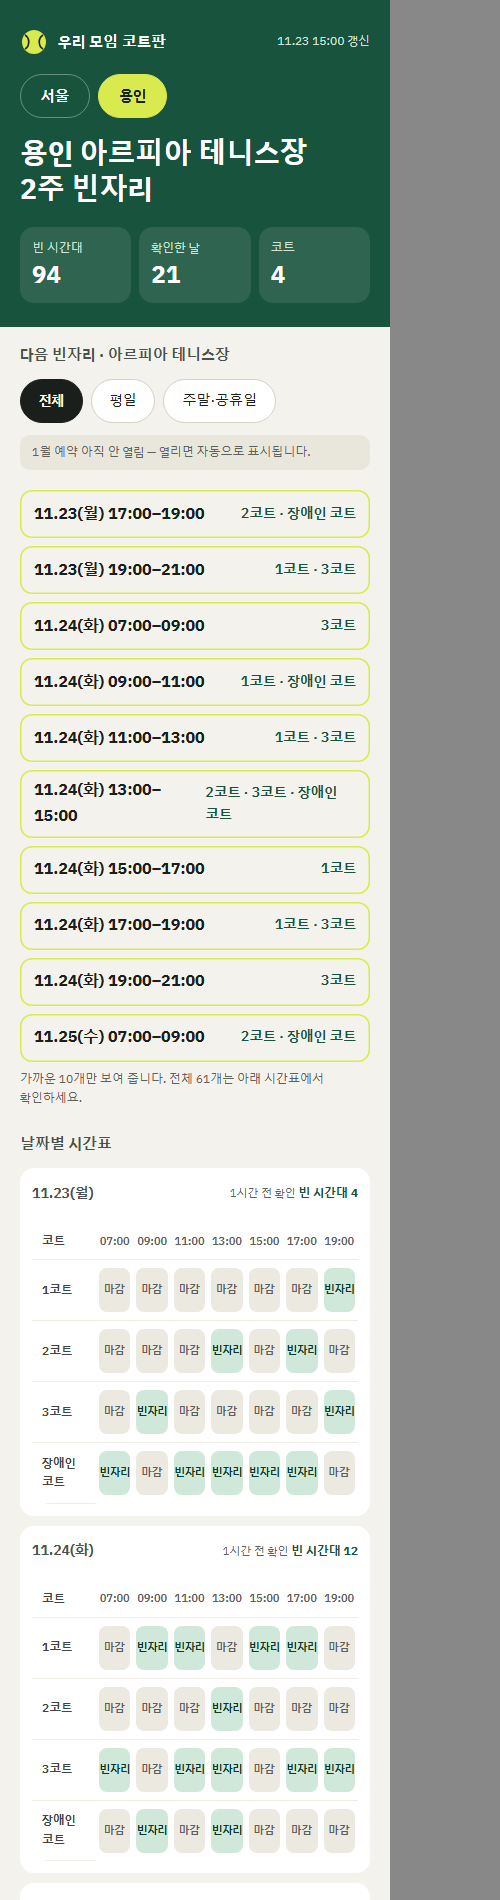
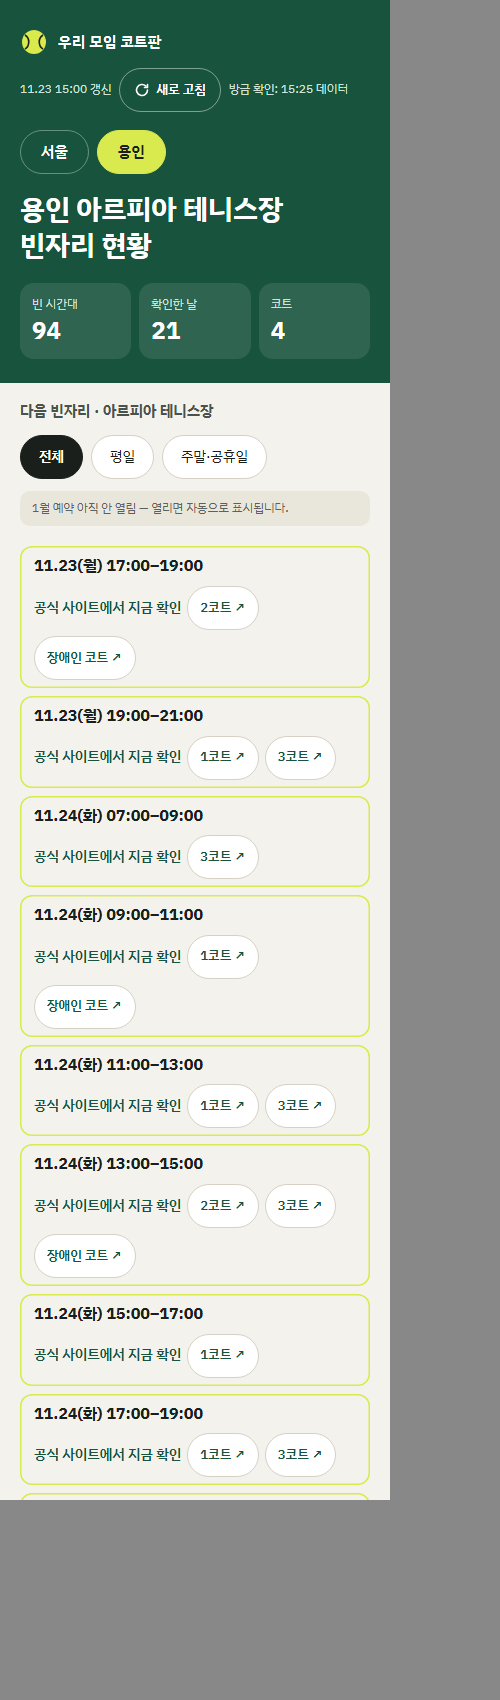
새로 고침 버튼(사이트 json 재읽기·5분 자동), 용인 칸·빈자리에 공식 코트 예약 페이지 링크
공식 사이트 직접 조회·워크플로 실행은 하지 않음.

Changed region(s): [[0.0, 0.0, 0.78, 1.0], [0.66, 0.0, 0.72, 0.0312], [0.63, 0.0312, 0.66, 0.0624]]

diff --git a/index.html b/index.html
@@ -108,9 +108,23 @@ footer{font-size:12px;color:var(--sub);line-height:1.6}
 .tab[aria-selected=true]{background:var(--ball);border-color:var(--ball);color:#1B1F1C}
 .tab:focus-visible,.nx a:focus-visible{outline:3px solid #fff;outline-offset:2px}
 #yWrap{display:none}
+.upd{display:flex;align-items:center;gap:8px;flex-wrap:wrap}
+.rf{min-height:44px;display:inline-flex;align-items:center;gap:6px;padding:0 14px;border-radius:999px;border:1px solid rgba(255,255,255,.45);background:transparent;color:#fff;font-size:13px;font-weight:600;cursor:pointer}
+.rf:disabled{opacity:.6;cursor:default}
+.rf:focus-visible{outline:3px solid #fff;outline-offset:2px}
+.rf.spin svg{animation:sp .8s linear infinite}
+@keyframes sp{to{transform:rotate(360deg)}}
+.nxc{display:flex;flex-wrap:wrap;align-items:center;gap:6px}
+.ol{min-height:44px;display:inline-flex;align-items:center;padding:0 12px;border-radius:999px;background:#fff;border:1px solid var(--line);color:var(--court);font-size:13px;font-weight:600;text-decoration:none}
+.ol:hover{background:var(--court);color:#fff}
+.ol:focus-visible{outline:3px solid #2F7FD8;outline-offset:2px}
+a.cell{text-decoration:none}
+a.cell:hover{filter:brightness(.95)}
+a.cell:focus-visible{outline:3px solid #2F7FD8;outline-offset:1px}
+.nxcap{font-size:12px;color:var(--sub)}
 .ycard{background:var(--card);border-radius:18px;padding:18px;display:flex;flex-direction:column;gap:14px;box-shadow:0 1px 2px rgba(27,31,28,.06)}
 .nxlist{display:flex;flex-direction:column;gap:8px;margin:0;padding:0;list-style:none}
-.nx{display:flex;align-items:center;justify-content:space-between;gap:12px;min-height:48px;background:var(--bg);border-radius:12px;padding:8px 14px;box-shadow:inset 0 0 0 1.5px var(--ball)}
+.nx{display:flex;flex-direction:column;align-items:flex-start;gap:6px;min-height:48px;background:var(--bg);border-radius:12px;padding:8px 14px;box-shadow:inset 0 0 0 1.5px var(--ball)}
 .nx b{font-size:16px;font-variant-numeric:tabular-nums}
 .nx span{font-size:14px;color:var(--court);font-weight:600}
 .ytab{min-width:0;font-size:13px;table-layout:fixed;width:100%}
@@ -137,7 +151,7 @@ footer{font-size:12px;color:var(--sub);line-height:1.6}
   <div class="hero-l">
     <div class="head-top">
       <div class="brand"><svg width="28" height="28" viewBox="0 0 28 28" aria-hidden="true"><circle cx="14" cy="14" r="12" fill="#D9EA4F"/><path d="M5 7c5 3 5 11 0 14M23 7c-5 3-5 11 0 14" fill="none" stroke="#1B1F1C" stroke-width="1.6"/></svg>우리 모임 코트판</div>
-      <span class="updated" id="updated"></span>
+      <div class="upd"><span class="updated" id="updated"></span><button type="button" class="rf" id="refresh" aria-describedby="rfNote"><svg width="16" height="16" viewBox="0 0 16 16" aria-hidden="true"><path d="M13.5 8a5.5 5.5 0 1 1-1.7-4M13.5 2.5v3h-3" fill="none" stroke="#fff" stroke-width="1.6" stroke-linecap="round" stroke-linejoin="round"/></svg>새로 고침</button><span class="updated" id="rfNote" role="status" aria-live="polite"></span></div>
     </div>
     <div class="tabs" role="tablist" aria-label="지역"><button type="button" class="tab" role="tab" id="tabSeoul" aria-selected="true">서울</button><button type="button" class="tab" role="tab" id="tabYongin" aria-selected="false">용인</button></div>
     <h1 id="h1">서울 공공 테니스장<br> 지금 접수되는 곳</h1>
@@ -170,7 +184,7 @@ footer{font-size:12px;color:var(--sub);line-height:1.6}
 <div class="wrap" id="yWrap"><main>
   <section aria-labelledby="yh"><h2 id="yh">다음 빈자리 · 아르피아 테니스장</h2><div class="chips" id="yChips" role="group" aria-label="요일 필터"></div><div id="yErr"></div><div id="yNext"></div></section>
   <section aria-labelledby="yh2"><h2 id="yh2">날짜별 시간표</h2><div id="yDays" style="display:flex;flex-direction:column;gap:10px"></div></section>
-  <div class="ycard"><p class="note"><span class="u">평일은 오늘부터 2주, 주말·공휴일은 다음 달 말일까지 보여 줍니다.</span> <span class="u">15분마다 4일씩 돌아가며 갱신해 주말·공휴일은 약 1시간, 평일은 약 2시간 안에 한 바퀴 돕니다.</span> <span class="u">날짜 옆에 마지막 확인 시각이 있습니다.</span> <span class="u">그사이 예약될 수 있으니 예약 전에 공식 사이트에서 확인하세요.</span></p>
+  <div class="ycard"><p class="note"><span class="u">평일은 오늘부터 2주, 주말·공휴일은 다음 달 말일까지 보여 줍니다.</span> <span class="u">15분마다 4일씩 돌아가며 갱신해 주말·공휴일은 약 1시간, 평일은 약 2시간 안에 한 바퀴 돕니다.</span> <span class="u">날짜 옆에 마지막 확인 시각이 있습니다.</span> <span class="u">그사이 예약될 수 있으니 예약 전에 공식 사이트에서 확인하세요(시간표 칸과 빈자리 항목을 누르면 해당 코트 예약 페이지가 열립니다).</span> <span class="u">‘새로 고침’은 이 페이지의 데이터만 다시 읽으며, 5분마다 자동으로도 읽습니다.</span></p>
   <a class="go" id="yGo" href="https://publicsports.yongin.go.kr/publicsports/sports/selectFcltyRceptResveListU.do" target="_blank" rel="noopener">공식 예약 사이트에서 예약하기 <svg width="16" height="16" viewBox="0 0 16 16" aria-hidden="true"><path d="M5 3l5 5-5 5" fill="none" stroke="#fff" stroke-width="1.8" stroke-linecap="round" stroke-linejoin="round"/></svg></a>
   <p class="note"><span class="u">출처: 용인특례시 공공체육시설 통합예약(비로그인 공개 화면 기준).</span></p></div>
 </main></div>
@@ -223,7 +237,8 @@ footer{font-size:12px;color:var(--sub);line-height:1.6}
        +closed.map(function(c){return'<tr><td>'+esc(place(c))+'</td><td>'+esc(title(c))+'</td><td>'+esc(range(c))+'</td><td>'+mdt(c._e)+'</td><td>마감</td></tr>'}).join('')+'</tbody></table></div></div></section>'}
     $('list').innerHTML=h;
   }
-  fetch(DATA,{cache:'no-store'}).then(function(r){if(!r.ok)throw new Error(r.status);return r.json()}).then(function(d){
+  function nocache(u){return u+(u.indexOf('?')<0?'?':'&')+'t='+Date.now()}
+  function loadSeoul(){return fetch(nocache(DATA),{cache:'no-store'}).then(function(r){if(!r.ok)throw new Error(r.status);return r.json()}).then(function(d){
     var now=new Date();
     courts=d.courts.map(function(c){c._b=parse(c.RCPTBGNDT);c._e=parse(c.RCPTENDDT);c._st=state(c,now);return c});
     var u=parse(d.updated_at);seoulUpd=u?mdt(u)+' 갱신':'';if(tab==='seoul')$('updated').textContent=seoulUpd;
@@ -234,12 +249,14 @@ footer{font-size:12px;color:var(--sub);line-height:1.6}
     $('q').oninput=function(){S.q=this.value;render()};
     $('onlyOpen').onchange=function(){S.only=this.checked;render()};
     render();
-  }).catch(function(){$('list').innerHTML='<p class="empty">data/courts.json 을 불러오지 못했습니다.</p>'});
+  }).catch(function(e){if(!courts.length)$('list').innerHTML='<p class="empty">data/courts.json 을 불러오지 못했습니다.</p>';throw e})}
   /* ---------- 용인 탭 ---------- */
   var YDATA=new URLSearchParams(location.search).get('ydata')||'data/yongin.json';
   var seoulUpd='',yongUpd='',yd=null,tab='seoul';
   var DOW=['일','월','화','수','목','금','토'];
   function dlabel(s){var a=s.split('-'),d=new Date(+a[0],a[1]-1,+a[2]);return a[1]+'.'+a[2]+'('+DOW[d.getDay()]+')'}
+  var OFFV='https://publicsports.yongin.go.kr/publicsports/sports/selectFcltyRceptResveViewU.do?resveId=';
+  function curl(day,key){var m=(yd.ids||{})[day.slice(0,7)]||{};return m[key]?OFFV+m[key]:(yd.official_url||'')}
   var yKind='';   // '' 전체 | 'wd' 평일 | 'we' 주말·공휴일
   function ago(iso){var d=parse(iso);if(!d)return'';var h=Math.floor((new Date()-d)/36e5);return h<1?'방금 확인':h+'시간 전 확인'}
   function yrender(){
@@ -256,19 +273,19 @@ footer{font-size:12px;color:var(--sub);line-height:1.6}
       var cs=yd.days[day],times={},byT={},dOpen=0;
       courts.forEach(function(c){(cs[c.key]||[]).forEach(function(s){times[s.s]=s.e;
         var past=new Date(day+'T'+s.s+':00')<now;
-        if(s.open&&!past){dOpen++;nOpen++;(byT[s.s]=byT[s.s]||{e:s.e,c:[]}).c.push(c.name)}})});
-      Object.keys(byT).sort().forEach(function(k){nxt.push({day:day,s:k,e:byT[k].e,c:byT[k].c})});
+        if(s.open&&!past){dOpen++;nOpen++;(byT[s.s]=byT[s.s]||{e:s.e,c:[],k:[]}).c.push(c.name),byT[s.s].k.push(c.key)}})});
+      Object.keys(byT).sort().forEach(function(k){nxt.push({day:day,s:k,e:byT[k].e,c:byT[k].c,k:byT[k].k})});
       var ts=Object.keys(times).sort();
       dh+='<details class="dday"'+(dOpen?' open':'')+'><summary><span class="dh">'+dlabel(day)+(weekend.indexOf(day)>=0?' <i class="wk">주말·공휴일</i>':'')+'</span><span class="sm"><em class="ag">'+esc(ago(chk[day]))+'</em> '+(dOpen?'<b class="go-n">빈 시간대 '+dOpen+'</b>':'전부 마감')+'</span></summary>'
         +'<div class="tablebox" style="margin-top:8px"><table class="ytab"><thead><tr><th scope="col">코트</th>'
         +ts.map(function(k){return'<th scope="col">'+k+'</th>'}).join('')+'</tr></thead><tbody>'
         +courts.map(function(c){var m={};(cs[c.key]||[]).forEach(function(s){m[s.s]=s});
           return'<tr><th scope="row" style="font-weight:600;color:#3F4541;text-align:left">'+esc(c.name)+'</th>'+ts.map(function(k){var s=m[k];
-            return'<td>'+(s?'<span class="cell '+(s.open?'o':'c')+'">'+(s.open?'빈자리':'마감')+'</span>':'<span class="cell" style="color:#9AA09B">–</span>')+'</td>'}).join('')+'</tr>'}).join('')
+            return'<td>'+(s?'<a class="cell '+(s.open?'o':'c')+'" href="'+esc(curl(day,c.key))+'" target="_blank" rel="noopener" aria-label="'+esc(c.name+' '+k+' '+(s.open?'빈자리':'마감')+', 공식 사이트에서 지금 확인')+'" title="공식 사이트에서 지금 확인">'+(s.open?'빈자리':'마감')+'</a>':'<span class="cell" style="color:#9AA09B">–</span>')+'</td>'}).join('')+'</tr>'}).join('')
         +'</tbody></table></div></details>'});
     $('yDays').innerHTML=dh||'<p class="empty">표시할 날짜가 없습니다.</p>';
     nxt.sort(function(a,b){return a.day<b.day?-1:a.day>b.day?1:a.s<b.s?-1:1});
-    $('yNext').innerHTML=nxt.length?'<ul class="nxlist">'+nxt.slice(0,10).map(function(n){return'<li class="nx"><b>'+dlabel(n.day)+' '+n.s+'–'+n.e+'</b><span>'+esc(n.c.join(' · '))+'</span></li>'}).join('')+'</ul>'+(nxt.length>10?'<p class="note" style="margin-top:8px">가까운 10개만 보여 줍니다. 전체 '+nxt.length+'개는 아래 시간표에서 확인하세요.</p>':'')
+    $('yNext').innerHTML=nxt.length?'<ul class="nxlist">'+nxt.slice(0,10).map(function(n){return'<li class="nx"><b>'+dlabel(n.day)+' '+n.s+'–'+n.e+'</b><div class="nxc"><span class="nxcap">공식 사이트에서 지금 확인</span>'+n.c.map(function(nm,i){return'<a class="ol" href="'+esc(curl(n.day,n.k[i]))+'" target="_blank" rel="noopener" aria-label="'+esc(nm+' 공식 사이트에서 지금 확인')+'">'+esc(nm)+' ↗</a>'}).join('')+'</div></li>'}).join('')+'</ul>'+(nxt.length>10?'<p class="note" style="margin-top:8px">가까운 10개만 보여 줍니다. 전체 '+nxt.length+'개는 아래 시간표에서 확인하세요.</p>':'')
       :'<div class="dash">지금 확인된 '+(yKind==='wd'?'평일':yKind==='we'?'주말·공휴일':'')+' 빈자리가 없습니다. 취소분이 나오면 15분 안팎으로 여기 맨 위에 뜹니다.</div>';
     if(tab==='yongin'){$('nOpen').textContent=nOpen;$('nSoon').textContent=days.length;$('nClosed').textContent=courts.length;$('updated').textContent=yongUpd}
   }
@@ -282,8 +299,20 @@ footer{font-size:12px;color:var(--sub);line-height:1.6}
     try{history.replaceState(null,'',y?'#yongin':location.pathname+location.search)}catch(e){}
   }
   $('tabSeoul').onclick=function(){setTab('seoul')};$('tabYongin').onclick=function(){setTab('yongin')};
-  fetch(YDATA,{cache:'no-store'}).then(function(r){if(!r.ok)throw new Error(r.status);return r.json()}).then(function(d){yd=d;yrender()})
-    .catch(function(){$('yErr').innerHTML='<div class="err">용인 데이터를 불러오지 못했습니다.</div>'});
+  function loadYongin(){return fetch(nocache(YDATA),{cache:'no-store'}).then(function(r){if(!r.ok)throw new Error(r.status);return r.json()}).then(function(d){yd=d;yrender()})
+    .catch(function(e){if(!yd)$('yErr').innerHTML='<div class="err">용인 데이터를 불러오지 못했습니다.</div>';throw e})}
+  /* 새로 고침: 우리 사이트의 json 두 개만 다시 읽는다(공식 사이트 조회·워크플로 실행 없음) */
+  var busy=false,lastClick=0;
+  function refreshAll(manual){
+    if(busy)return;if(manual&&Date.now()-lastClick<3000)return;if(manual)lastClick=Date.now();
+    busy=true;var b=$('refresh');b.disabled=true;b.classList.add('spin');
+    Promise.all([loadSeoul().then(function(){return 1},function(){return 0}),loadYongin().then(function(){return 1},function(){return 0})]).then(function(r){
+      var d=new Date();$('rfNote').textContent=(r[0]&&r[1]?'방금 확인: ':'일부만 읽음: ')+p2(d.getHours())+':'+p2(d.getMinutes())+' 데이터';
+      busy=false;b.disabled=false;b.classList.remove('spin')});
+  }
+  $('refresh').onclick=function(){refreshAll(true)};
+  setInterval(function(){if(!document.hidden)refreshAll(false)},300000);
+  refreshAll(false);
   if(location.hash==='#yongin')setTab('yongin');
 })();
 </script>
